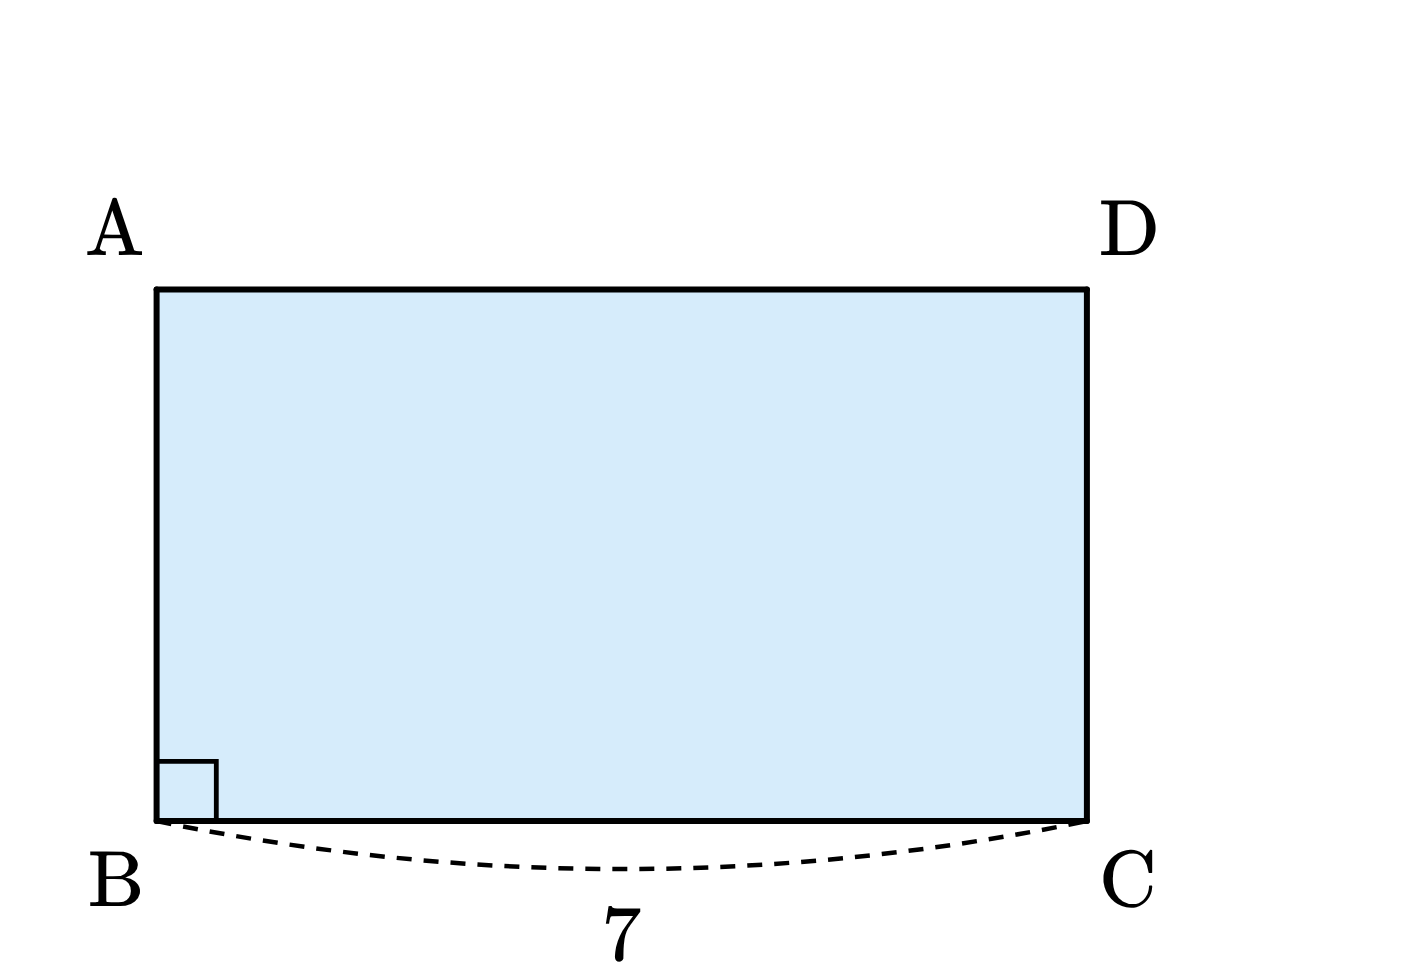
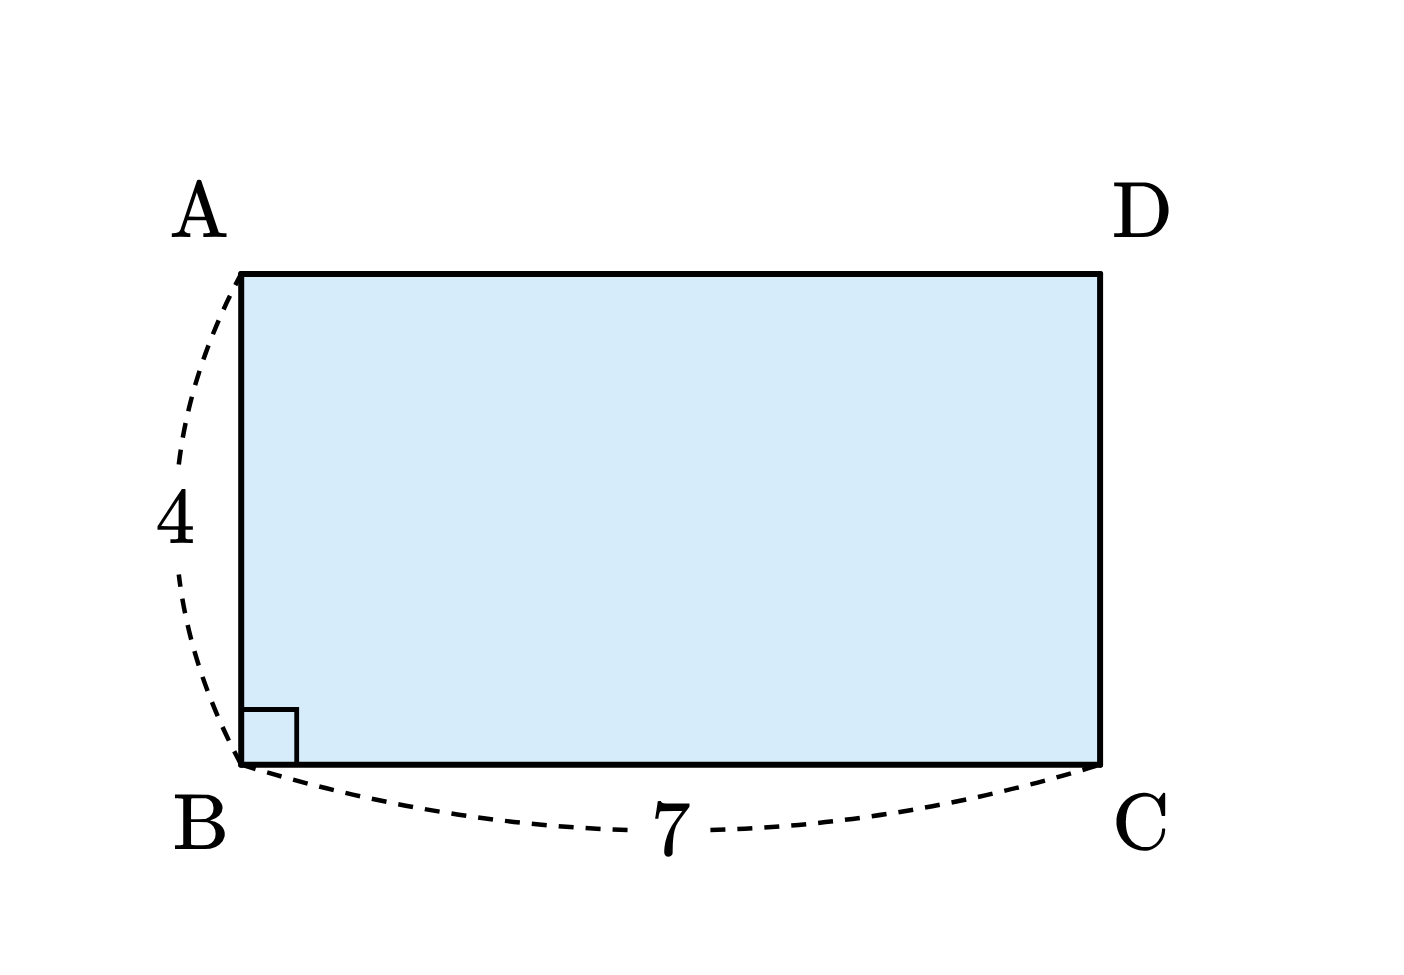
Update math figure rules: length marks break the dashed arc at its middle
- dim_arc now cuts the dashed arc in the middle and writes the length in the gap
- add example_length.png as the reference for length marks

Claude-Session: https://claude.ai/code/session_0148Cc164NYStGvveuhZSEgF

diff --git a/.claude/skills/math-figure-rules/mathfig.py b/.claude/skills/math-figure-rules/mathfig.py
@@ -198,20 +198,44 @@ def right_mark(F, v, p, q, k=0.06):
                  % (F.P(*p1) + F.P(*p2) + F.P(*p3)))
 
 
-def dim_arc(F, p, q, label, side, bulge=16, size=FONT, gap=6):
-    """선분 pq의 길이 표시: side 쪽(+1/-1)으로 휜 점선 호를 긋고 가운데에 길이를 쓴다"""
+def dim_arc(F, p, q, label, side, bulge=16, size=FONT, gap=6, cut=True):
+    """선분 pq의 길이 표시: side 쪽(+1/-1)으로 휜 점선 호를 긋는다.
+    약속: 점선의 가운데를 끊고 그 끊은 자리에 길이를 쓴다(cut=True, 기본).
+    bulge는 호가 선분에서 떨어지는 정도(픽셀). 글자가 다른 점 이름·선과 붙으면 bulge를 키운다(보통 16~46).
+    cut=False는 예전 모양(끊지 않은 호 바깥에 글자)으로, 새 그림에는 쓰지 않는다."""
     (x1, y1), (x2, y2) = F.P(*p), F.P(*q)
     mx, my = (x1 + x2) / 2, (y1 + y2) / 2
     dx, dy = x2 - x1, y2 - y1
     n = math.hypot(dx, dy)
     nx, ny = -dy / n * side, dx / n * side
     cx, cy = mx + nx * 2 * bulge, my + ny * 2 * bulge
-    F.svg.append('<path d="M%.1f,%.1f Q%.1f,%.1f %.1f,%.1f" fill="none" stroke="#000" stroke-width="1.5" stroke-dasharray="5,4"/>'
-                 % (x1, y1, cx, cy, x2, y2))
-    lx, ly = mx + nx * (bulge + gap), my + ny * (bulge + gap)
-    anc = ("l" if nx > 0.5 else "r" if nx < -0.5 else "c") + ("t" if ny > 0.5 else "b" if ny < -0.5 else "c")
-    F.labels.append((lx, ly, label, size, anc))
+    dash = 'fill="none" stroke="#000" stroke-width="1.5" stroke-dasharray="5,4"'
+    if not cut:
+        F.svg.append('<path d="M%.1f,%.1f Q%.1f,%.1f %.1f,%.1f" %s/>' % (x1, y1, cx, cy, x2, y2, dash))
+        lx, ly = mx + nx * (bulge + gap), my + ny * (bulge + gap)
+        anc = ("l" if nx > 0.5 else "r" if nx < -0.5 else "c") + ("t" if ny > 0.5 else "b" if ny < -0.5 else "c")
+        F.labels.append((lx, ly, label, size, anc))
+        return
 
+    def B(t):
+        return ((1 - t) ** 2 * x1 + 2 * t * (1 - t) * cx + t * t * x2, (1 - t) ** 2 * y1 + 2 * t * (1 - t) * cy + t * t * y2)
+
+    def sub(t0, t1):                    # 2차 베지에의 [t0, t1] 부분
+        a, b = B(t0), B(t1)
+        d0 = (2 * (1 - t0) * (cx - x1) + 2 * t0 * (x2 - cx), 2 * (1 - t0) * (cy - y1) + 2 * t0 * (y2 - cy))
+        h = (t1 - t0) / 2
+        c = (a[0] + d0[0] * h, a[1] + d0[1] * h)
+        return '<path d="M%.1f,%.1f Q%.1f,%.1f %.1f,%.1f" %s/>' % (a + c + b + (dash,))
+
+    M = B(0.5)
+    # 끊는 길이: 호가 가로로 지나면 글자 폭, 세로로 지나면 글자 높이에 여유를 더한 만큼
+    half = (len(label) * 0.62 * size) / 2 + 6 if abs(dx) >= abs(dy) else size * 0.75 / 2 + 10
+    t = 0.5
+    while t > 0 and math.hypot(B(t)[0] - M[0], B(t)[1] - M[1]) < half:
+        t -= 0.002
+    F.svg.append(sub(0, t))
+    F.svg.append(sub(1 - t, 1))
+    F.labels.append((M[0], M[1], label, size, "cc"))
 
 if __name__ == "__main__":
     # 시험: 두 점 (-2, 0), (3, 0)을 지나는 포물선과 직사각형 길이 표시
@@ -227,14 +251,15 @@ if __name__ == "__main__":
         return F.render()
 
     def fig_rect():
-        F = Frame((-0.5, 8.5), (-0.5, 5.5), 30, 30, (30, 30, 40, 30))
+        F = Frame((-0.5, 8.5), (-0.5, 5.5), 30, 30, (60, 30, 40, 50))
         A, B, C, D = (0, 4), (0, 0), (7, 0), (7, 4)
         F.poly([A, B, C, D], SKY)
         for p, q in ((A, B), (B, C), (C, D), (D, A)):
             F.seg(p, q)
         right_mark(F, B, A, C, 0.45)
         F.pt(A, "A", "rb", -4, -4); F.pt(B, "B", "rt", -4, 4); F.pt(C, "C", "lt", 4, 4); F.pt(D, "D", "lb", 4, -4)
-        dim_arc(F, B, C, "7", 1)
+        dim_arc(F, B, C, "7", 1, 22)
+        dim_arc(F, B, A, "4", -1, 22)
         return F.render()
 
     fit_shoot("example_graph.png", fig_graph, 9000)
